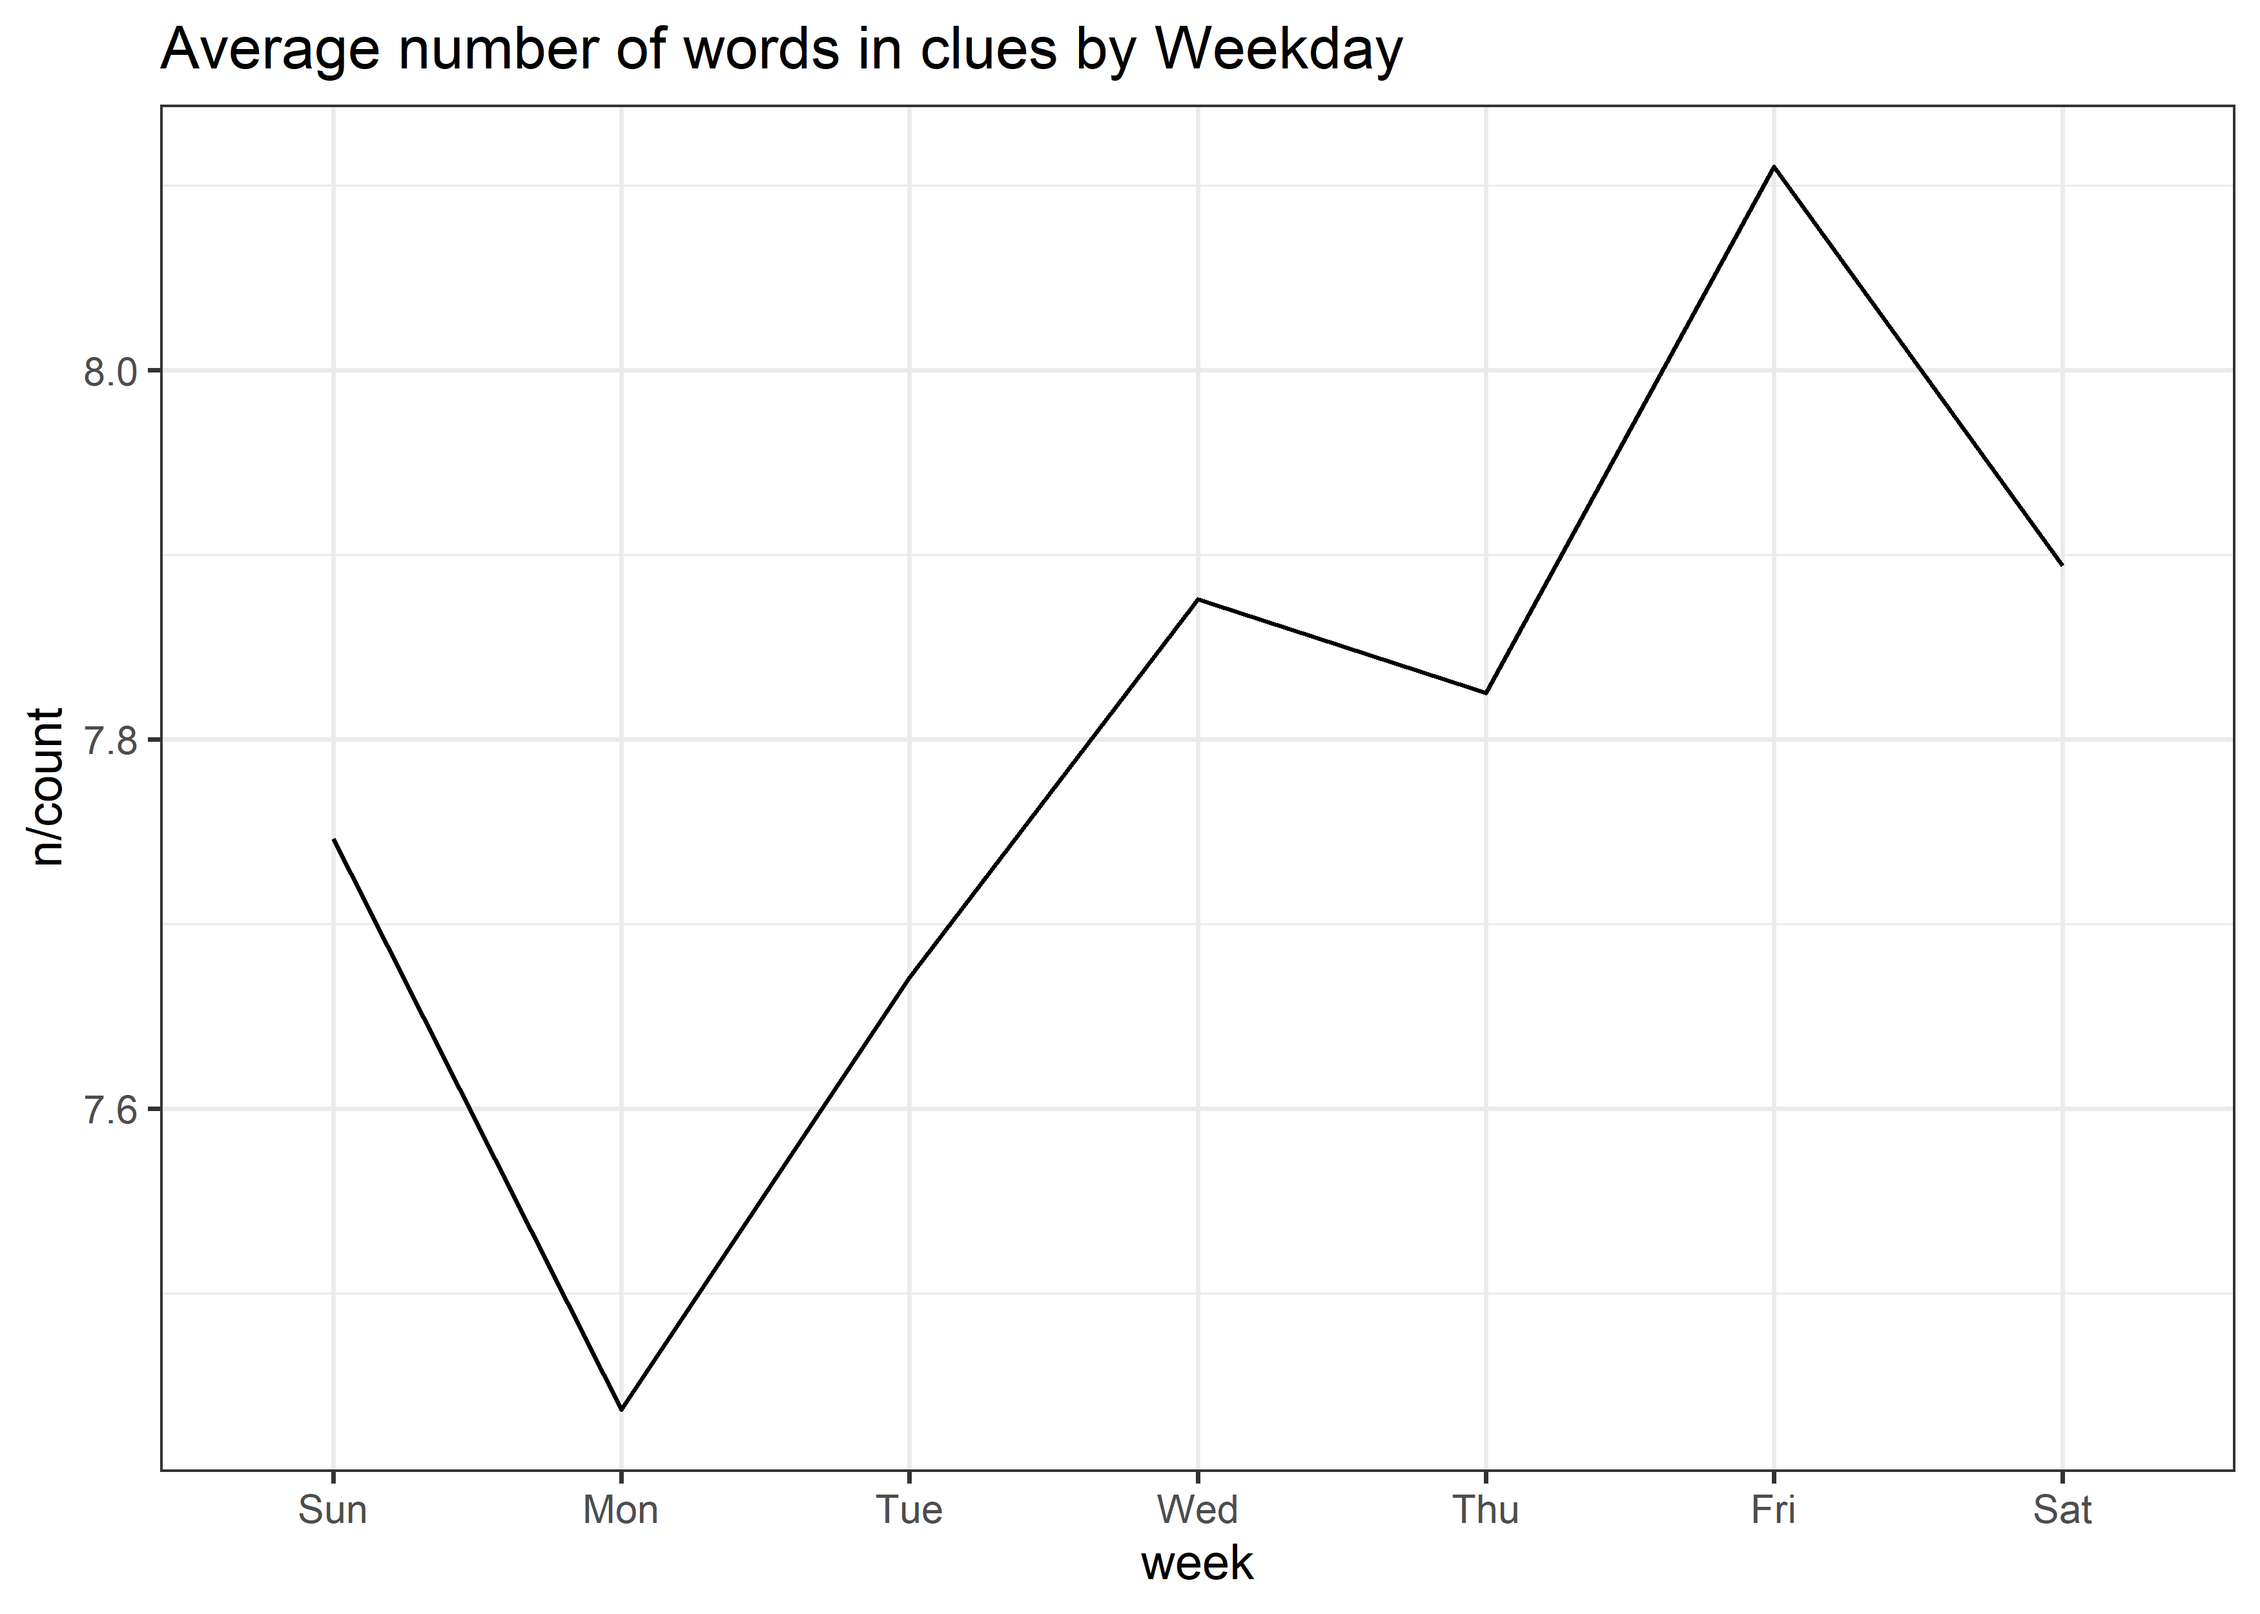
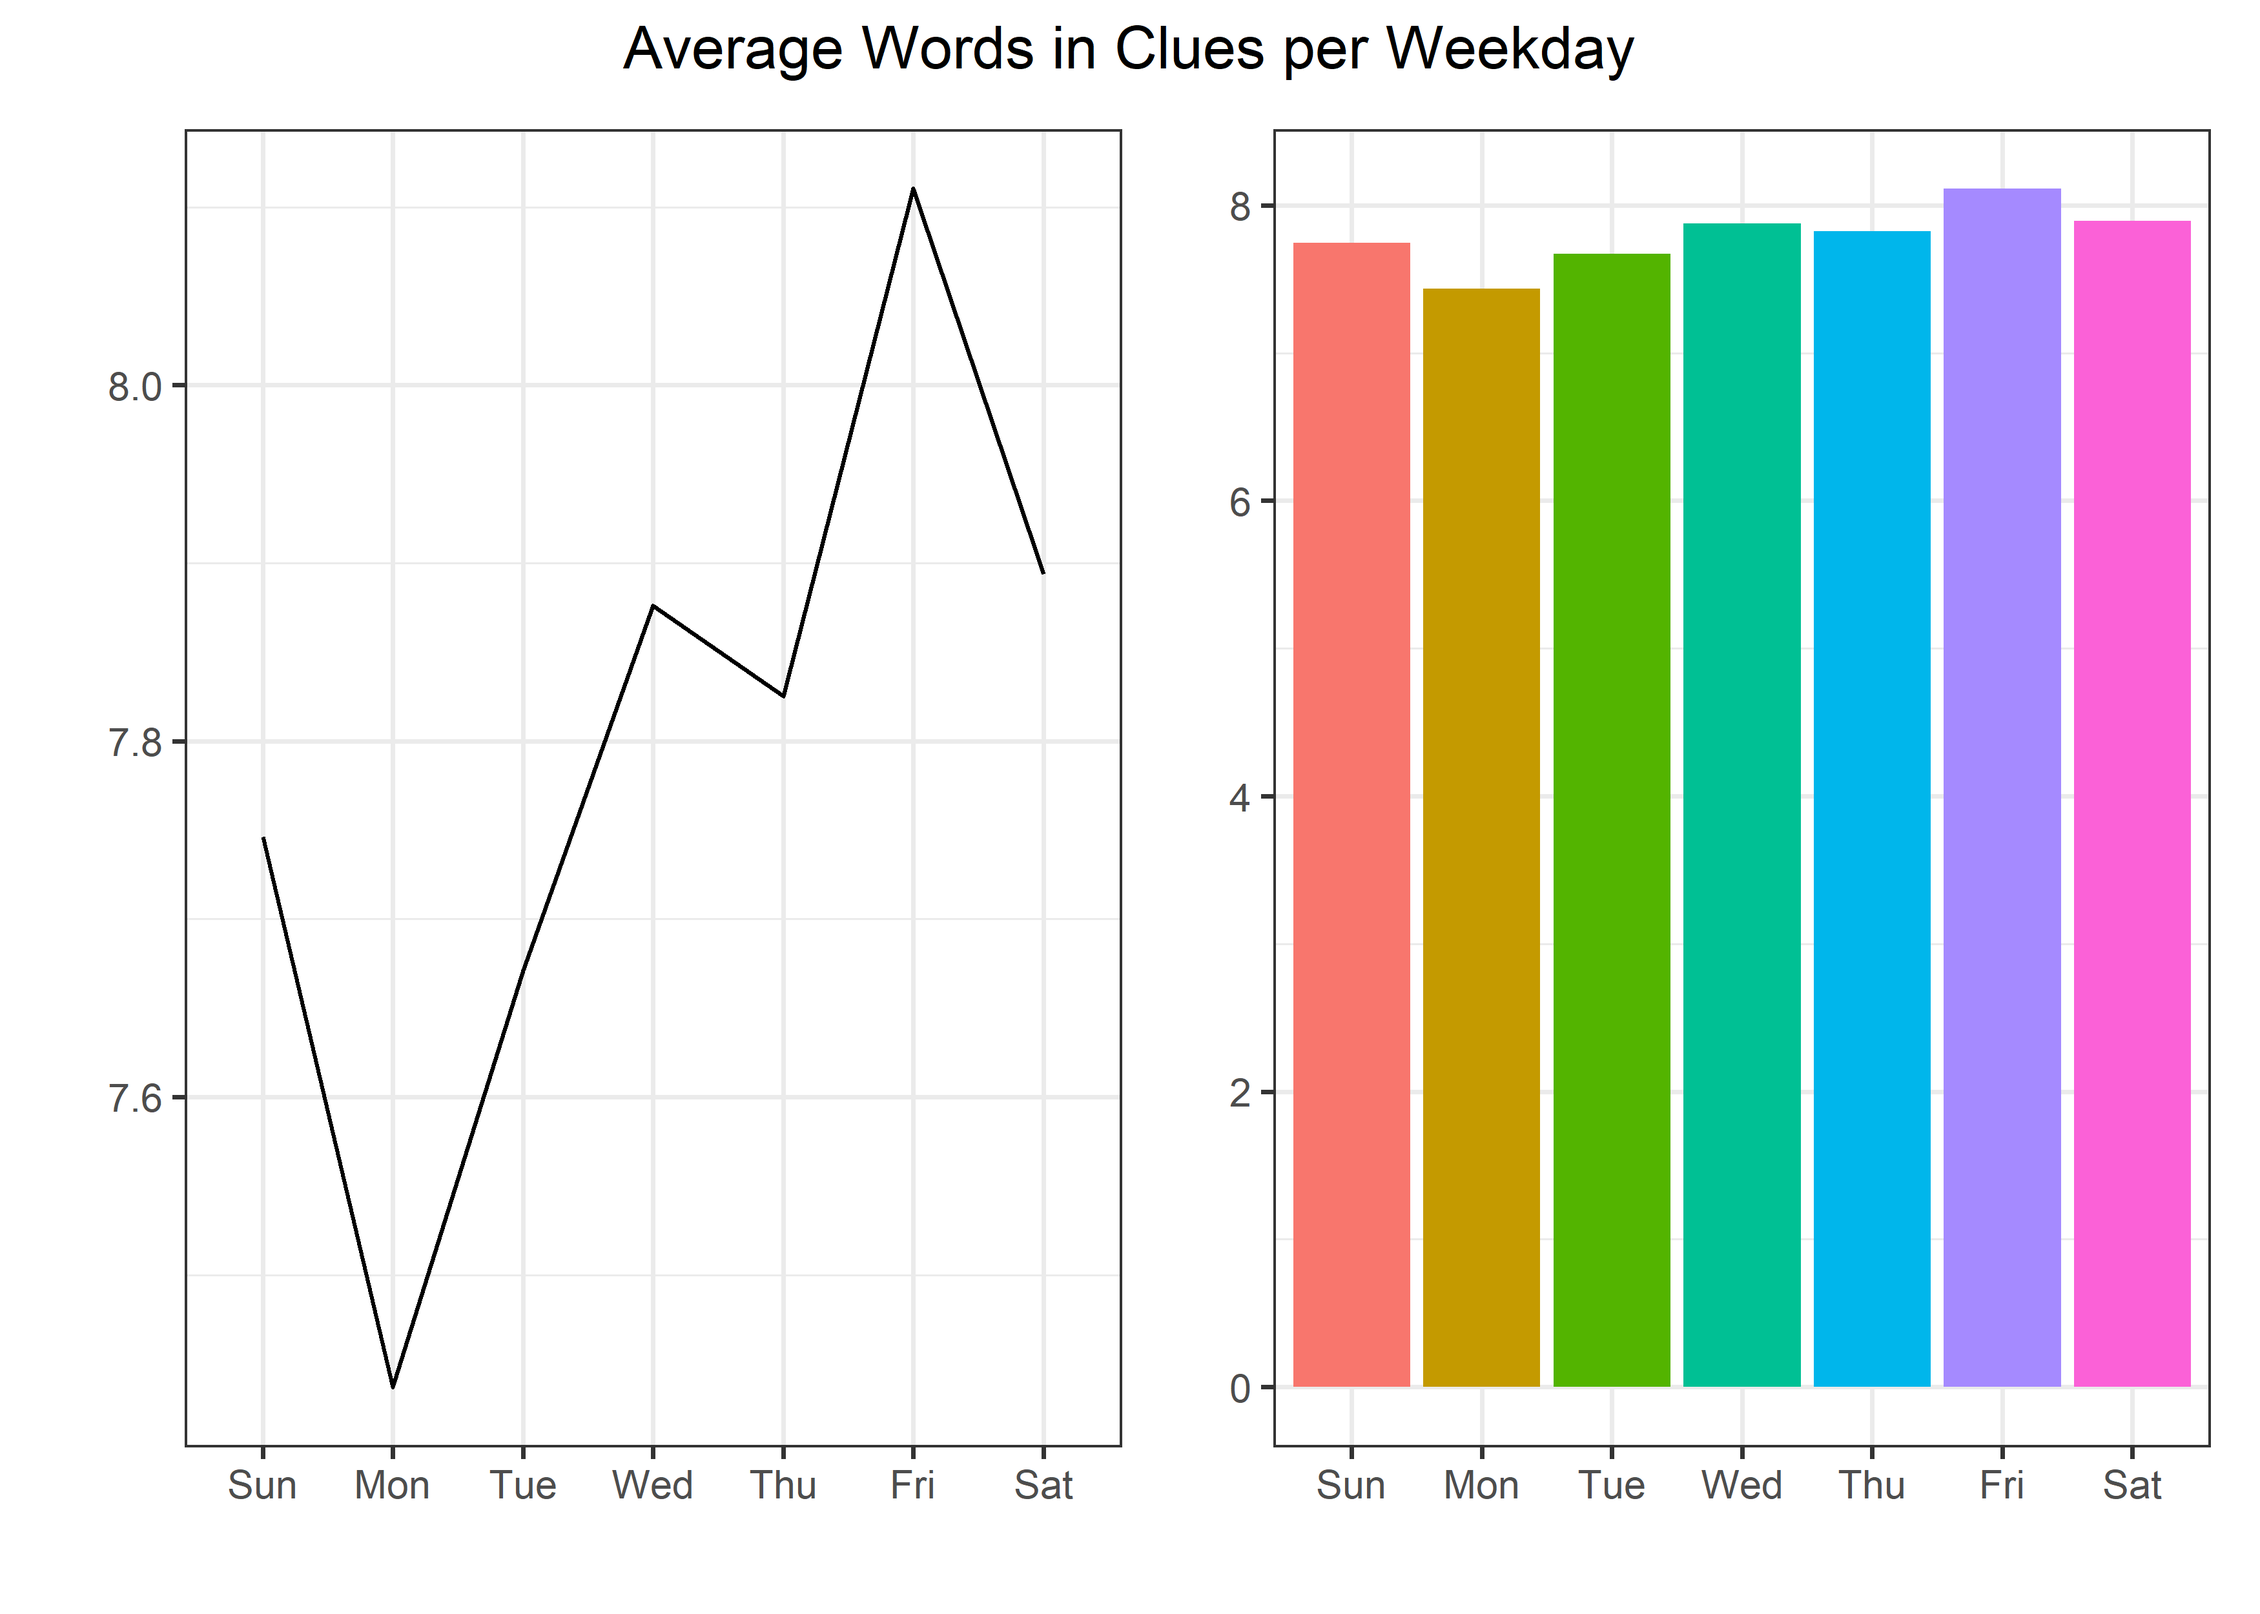
patchwork plot

diff --git a/04-19-22/Crossword-Puzzle.md b/04-19-22/Crossword-Puzzle.md
@@ -159,7 +159,7 @@ times %>%
 big_dave %>% 
   filter(!is.na(definition)) %>% 
   filter(definition == "Bird") %>% 
-  group_by(year = lubridate::year(puzzle_date)) %>% 
+  group_by(year = year(puzzle_date)) %>% 
   summarize(n = n()) %>% 
   ggplot(aes(year, n)) + geom_line()
 ```
@@ -170,7 +170,7 @@ big_dave %>%
 big_dave %>% 
   filter(!is.na(definition)) %>% 
   filter(definition %in% pull(big_dave %>% count(definition, sort = TRUE) %>% head(10), definition)) %>% 
-  group_by(year = lubridate::year(puzzle_date), definition) %>% 
+  group_by(year = year(puzzle_date), definition) %>% 
   ggplot(aes(year, color = definition)) + geom_density() +
   scale_x_continuous(breaks = seq(2010,2022,2)) +
   labs(title = "Yearly Proportion of 10 most common definitions", y = "", x = "")
@@ -178,10 +178,12 @@ big_dave %>%
 
 ![](Crossword-Puzzle_files/figure-gfm/unnamed-chunk-3-2.png)<!-- -->
 
+## Number of words per Month
+
 ``` r
 big_dave %>% 
   unnest_tokens(word, definition) %>% 
-  group_by(month = lubridate::month(puzzle_date, label = TRUE)) %>% 
+  group_by(month = month(puzzle_date, label = TRUE)) %>% 
   summarize(n = n()) %>% 
   arrange(-n) %>% 
   ggplot(aes(month, n, group = 1)) + geom_line() +
@@ -193,7 +195,7 @@ big_dave %>%
 ``` r
 big_dave %>% 
   unnest_tokens(word, clue) %>% 
-  group_by(month = lubridate::month(puzzle_date, label = TRUE)) %>% 
+  group_by(month = month(puzzle_date, label = TRUE)) %>% 
   summarize(n = n()) %>% 
   ggplot(aes(month, n, group = 1)) + geom_line() +
   labs(title = "Total number of words in clues per month")
@@ -201,20 +203,28 @@ big_dave %>%
 
 ![](Crossword-Puzzle_files/figure-gfm/unnamed-chunk-4-2.png)<!-- -->
 
+## Number of words per Week
+
 ``` r
 week_count <- big_dave %>%
-  group_by(week = lubridate::wday(puzzle_date, label = TRUE)) %>% 
+  group_by(week = wday(puzzle_date, label = TRUE)) %>% 
   summarize(count = n())
 
-big_dave %>% 
+p <- big_dave %>% 
   unnest_tokens(word, clue) %>% 
-  group_by(week = lubridate::wday(puzzle_date, label = TRUE)) %>% 
+  group_by(week = wday(puzzle_date, label = TRUE)) %>% 
   summarize(n = n()) %>% 
   inner_join(week_count) %>% 
-  ggplot(aes(week, n/count, group = 1)) + geom_line() +
-  labs(title = "Average number of words in clues by Weekday")
+  ggplot(aes(week, n/count, group = 1)) + labs(y = "", x = "")
 ```
 
     ## Joining, by = "week"
+
+``` r
+(p + geom_line()) +
+  (p + geom_col(aes(fill = week)) + scale_fill_discrete(guide = "none")) + 
+  plot_annotation(title = "Average Words in Clues per Weekday",
+                  theme = theme(plot.title = element_text(hjust = 0.5)))
+```
 
 ![](Crossword-Puzzle_files/figure-gfm/unnamed-chunk-5-1.png)<!-- -->
